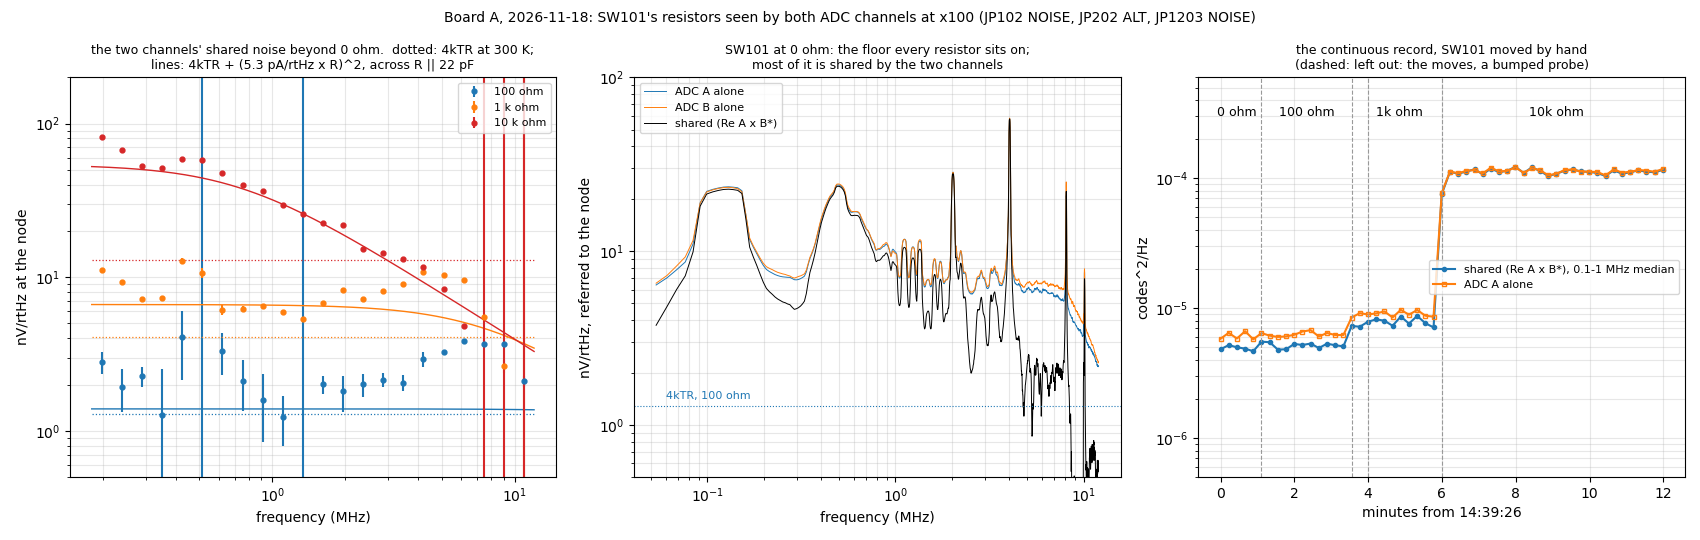
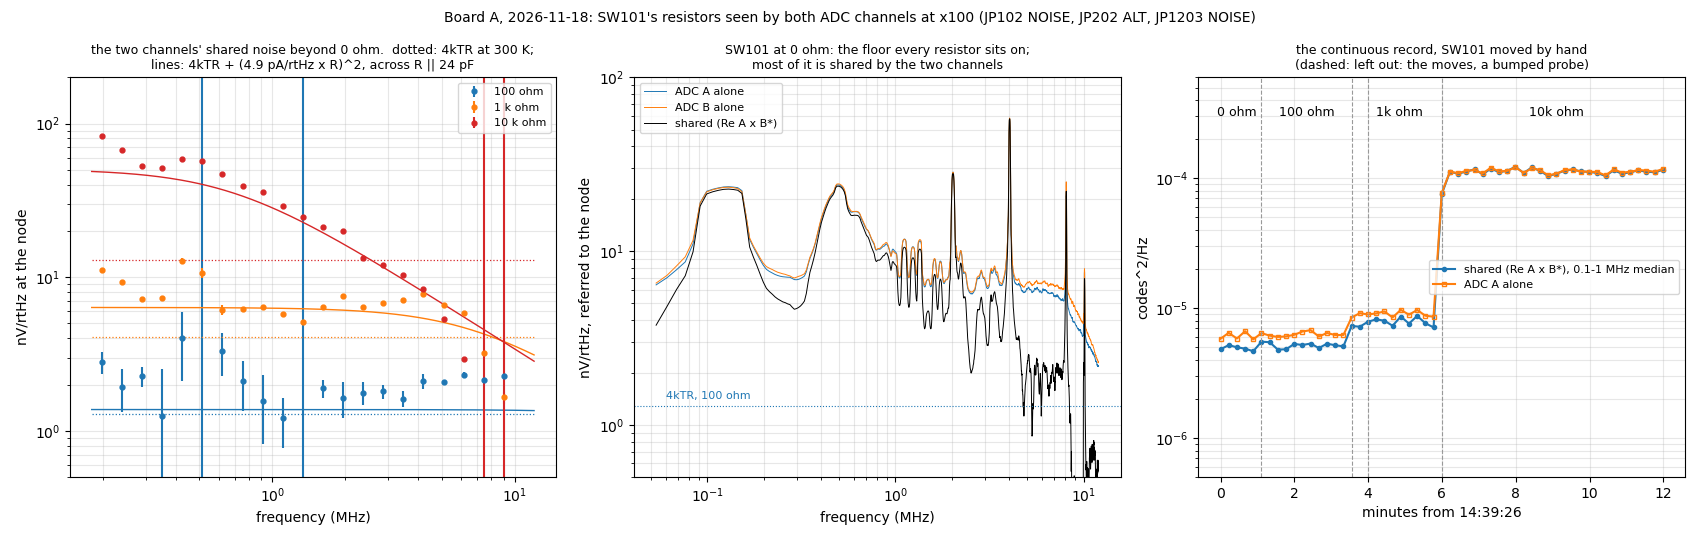
Visit 3 gain: x100 / x1 = 100.86, flat to 5 MHz; the noise analysis redone on it: T 487 +- 189 K
Claude-Session: https://claude.ai/code/session_01Uf588GeGuaJ8vb8pWfQfmA

diff --git a/bringup/gain/gain_check.py b/bringup/gain/gain_check.py
@@ -1,0 +1,129 @@
+#!/usr/bin/env python3
+"""Channel A's gain at x1, x10 and x100, with the flash's bring-up design (ecp5bu): a cable from J204 DAC 1 OUT to J101
+ADC A IN, JP101 TERM in, JP102 on SMA.  The same DAC sine is read at each gain, so each ratio does not depend on the DAC's
+own accuracy; a DC staircase at x1 gives the absolute scale (ADC codes per DAC code: 0.25 by design, both ends +-1 V into
+50 ohm); a sweep at x1 and x100 gives the x100 stages' frequency response.
+
+    python3 gain_check.py x1        # all four GAIN shunts in
+    python3 gain_check.py x10       # JP103 out: the first stage at x10.1
+    python3 gain_check.py x100      # JP103 and JP104 out
+    python3 gain_check.py x10b      # JP103 back in, JP104 out: the second stage alone at x10.1
+    python3 gain_check.py --analyze
+
+Saves gain_<stage>.npz here.  (For bringup/noise/johnson.py: its G0 assumes 2048 codes/V x 10.1^2.)
+"""
+import os
+import sys
+import time
+
+import numpy as np
+
+HERE = os.path.dirname(os.path.abspath(__file__))
+sys.path.insert(0, os.path.join(HERE, "..", "..", "gateware", "bringup", "host"))
+F0 = 100e3
+PLAN = {"x1": dict(shifts=[1, 4, 5, 8], dc=True, sweep=1), "x10": dict(shifts=[4, 5, 8], dc=False, sweep=4),
+        "x100": dict(shifts=[7, 8, 9], dc=False, sweep=8), "x10b": dict(shifts=[4, 5, 8], dc=False, sweep=4)}
+SWEEP = [100e3, 200e3, 500e3, 1e6, 2e6, 3e6, 5e6, 7e6, 10e6]
+
+
+def board():
+    import ecp5bu
+    bd = ecp5bu.Board(ecp5bu.find_port())
+    bd.gpio(dac_sleep=0, pdwn_a=0, pdwn_b=0)
+    bd.dac_config(rate=50e6)
+    bd.dac(2, "dc", code=8192)
+    bd.adc_config(rate=25e6)
+    return bd
+
+
+def fit(t, x, f):
+    m = np.column_stack([np.ones_like(t), np.cos(2 * np.pi * f * t), np.sin(2 * np.pi * f * t)])
+    c, *_ = np.linalg.lstsq(m, x, rcond=None)
+    r = x - m @ c
+    return c[0], np.hypot(c[1], c[2]), np.arctan2(-c[2], c[1]), r.std()
+
+
+def sine(bd, f, shift, n=4):
+    fx = bd.dac(1, "sine", freq=f, shift=shift)
+    time.sleep(0.05)
+    out = []
+    for _ in range(n):
+        t, a, b, otr = bd.capture(8192)
+        a = np.asarray(a, float)
+        out.append(fit(np.asarray(t), a, fx) + (a.min(), a.max()))
+    o = np.array(out)
+    return fx, o[:, 1].mean(), o[:, 1].std() / np.sqrt(n), o[:, 3].mean(), o[:, 4].min(), o[:, 5].max(), o[:, 0].mean()
+
+
+def measure(stage):
+    bd = board()
+    p = PLAN[stage]
+    res = {"stage": stage, "t": time.strftime("%Y-%m-%d %H:%M:%S")}
+    try:
+        rows = []
+        for sh in p["shifts"]:
+            fx, amp, eamp, rms, lo, hi, dc = sine(bd, F0, sh)
+            rows.append((sh, fx, amp, eamp, rms, lo, hi, dc))
+            print("%s  shift %d at %.0f Hz: ADC A amplitude %.3f +- %.3f codes (residual %.2f rms; codes %d..%d; mean %.1f)%s"
+                  % (stage, sh, fx, amp, eamp, rms, lo, hi, dc, "  CLIPPED" if lo <= 0 or hi >= 4095 else ""), flush=True)
+        res["sines"] = np.array(rows)
+        if p["dc"]:
+            drows = []
+            for k in (-4096, -2048, 0, 2048, 4096):
+                bd.dac(1, "dc", code=8192 + k)
+                time.sleep(0.05)
+                t, a, b, otr = bd.capture(8192)
+                drows.append((8192 + k, np.mean(a)))
+                print("%s  DAC code %5d: ADC A mean %.2f" % (stage, 8192 + k, drows[-1][1]), flush=True)
+            d = np.array(drows)
+            res["dc"] = d
+            print("%s  slope %.5f ADC codes per DAC code (0.25 by design)" % (stage, np.polyfit(d[:, 0], d[:, 1], 1)[0]))
+        if p["sweep"] is not None:
+            srows = []
+            for f in SWEEP:
+                fx, amp, eamp, rms, lo, hi, dc = sine(bd, f, p["sweep"], n=2)
+                srows.append((fx, amp, eamp))
+                print("%s  sweep shift %d, %.3f MHz: %.3f codes" % (stage, p["sweep"], fx / 1e6, amp), flush=True)
+            res["sweep"] = np.array(srows)
+    finally:
+        bd.dac(1, "dc", code=8192)                      # DAC 1 at 0 V (code 8192: the LED driver's 24 mA, were it working)
+    np.savez(os.path.join(HERE, "gain_%s.npz" % stage), **res)
+    print("saved gain_%s.npz" % stage)
+
+
+def analyze():
+    d = {s: np.load(os.path.join(HERE, "gain_%s.npz" % s)) for s in PLAN if os.path.exists(os.path.join(HERE, "gain_%s.npz" % s))}
+    amp = {s: {int(r[0]): (r[2], r[3]) for r in d[s]["sines"]} for s in d}
+    if "x1" in d:
+        dc = d["x1"]["dc"]
+        slope = np.polyfit(dc[:, 0], dc[:, 1], 1)[0]
+        print("x1: %.5f ADC codes per DAC code (0.25 by design: %+.2f %%)" % (slope, (slope / 0.25 - 1) * 100))
+    if "x1" in d and "x10" in d:
+        for sh in (4, 5):
+            if sh in amp["x1"] and sh in amp["x10"]:
+                print("x10 / x1 at shift %d: %.4f (10.1 by design)" % (sh, amp["x10"][sh][0] / amp["x1"][sh][0]))
+    if "x1" in d and "x10b" in d:
+        for sh in (4, 5):
+            print("x10b / x1 at shift %d: %.4f (the second stage; 10.1 by design)" % (sh, amp["x10b"][sh][0] / amp["x1"][sh][0]))
+    if "x10b" in d and "x100" in d:
+        print("x100 / x10b at shift 8: %.4f (the first stage, measured the other way)" % (amp["x100"][8][0] / amp["x10b"][8][0]))
+    if "x10" in d and "x100" in d:
+        g = amp["x100"][8][0] / amp["x10"][8][0]
+        print("x100 / x10 at shift 8: %.4f (10.1 by design)" % g)
+        if "x1" in d:
+            g1 = amp["x10"][5][0] / amp["x1"][5][0]
+            print("x100 / x1: %.2f (102.0 by design: %+.1f %%)" % (g * g1, (g * g1 / 102.01 - 1) * 100))
+    if "x100" in d and "x1" in d and "sweep" in d["x100"].files:
+        s100, s1 = d["x100"]["sweep"], d["x1"]["sweep"]
+        r = (s100[:, 1] / s1[:, 1]) / (s100[0, 1] / s1[0, 1])
+        print("x100's response against x1 (shift 8 against shift 1, normalised at 0.1 MHz):",
+              " ".join("%.1f MHz %.3f" % (f / 1e6, x) for f, x in zip(s100[:, 0], r)))
+
+
+if __name__ == "__main__":
+    if len(sys.argv) > 1 and sys.argv[1] == "--analyze":
+        analyze()
+    elif len(sys.argv) > 1 and sys.argv[1] in PLAN:
+        measure(sys.argv[1])
+    else:
+        print(__doc__)

diff --git a/bringup/noise/johnson.py b/bringup/noise/johnson.py
@@ -38,6 +38,31 @@ EDGES = np.geomspace(180e3, 12e6, 23)   # log bands, 12 a decade: at least 5 FFT
 #   median rejects the narrow lines; from 0.18 MHz, above the 120 kHz pair (1.13) that swamps the bands below
 
 
+
+GAIN = os.path.join(HERE, "..", "gain")
+
+
+def measured_chain(fb):
+    """Channel A's gain at x100 in codes per volt at the node, and its power response against frequency, from
+    ../gain/gain_check.py (2026-11-18 16:00-16:05): x1's DC staircase (ADC codes per DAC code, the DAC taken at its
+    design 2 V / 16384 into 50 ohm), x100 / x1 from the same sine, and the x100 sweep with the DAC's 50 MS/s hold
+    (sinc) divided out, since the noise does not pass the DAC.  Without those files: the design values (2048 codes/V
+    x 10.1^2) and two poles at 6 MHz, which is what the first analysis used and which overcorrected 1-5 MHz."""
+    try:
+        x1 = np.load(os.path.join(GAIN, "gain_x1.npz"))
+        x10 = np.load(os.path.join(GAIN, "gain_x10.npz"))
+        x100 = np.load(os.path.join(GAIN, "gain_x100.npz"))
+    except FileNotFoundError:
+        return G0, 1 / (1 + (fb / 6e6) ** 2) ** 2, "the design gain"
+    dc = x1["dc"]
+    per_volt = np.polyfit(dc[:, 0], dc[:, 1], 1)[0] * 16384 / 2.0            # ADC codes per volt at x1
+    amp = lambda z, sh: [r[2] for r in z["sines"] if int(r[0]) == sh][0]
+    g100 = amp(x10, 5) / amp(x1, 5) * amp(x100, 8) / amp(x10, 8)
+    sw = x100["sweep"]
+    f, a = sw[:, 0], sw[:, 1] / np.sinc(sw[:, 0] / 50e6)
+    resp = np.interp(np.log(fb), np.log(f), (a / a[0]) ** 2, left=1.0, right=np.nan)
+    return per_volt * g100, resp, "the measured gain (x1 %.1f codes/V, x100 / x1 %.2f)" % (per_volt, g100)
+
 def spectra(recs, fs):
     n = recs.shape[1]
     w = np.hanning(n)
@@ -93,15 +118,15 @@ def main():
     d = np.load(SPECTRA)
     edges = d["edges"]
     fb = np.sqrt(edges[:-1] * edges[1:])
-    H = 1 / (1 + (fb / 6e6) ** 2) ** 2                      # the two x10.1 stages, poles taken at 6 MHz (GBW / 10.1)
+    G, H, how = measured_chain(fb)
     m, e = {}, {}                                             # mean, error (segment scatter / sqrt n): paa, pbb, Re, Im
     for k in R_OHM:
         s = d[k + "_seg"]
         m[k] = s.mean(0)
         e[k] = s.std(0, ddof=1) / np.sqrt(len(s))
     # the shared part beyond 0 ohm, at the node: V^2/Hz (the chain's nominal gain and poles divided out)
-    v = {k: (m[k][2] - m["0"][2]) / G0 ** 2 / H for k in ("100", "1k", "10k")}
-    ev = {k: np.hypot(e[k][2], e["0"][2]) / G0 ** 2 / H for k in v}
+    v = {k: (m[k][2] - m["0"][2]) / G ** 2 / H for k in ("100", "1k", "10k")}
+    ev = {k: np.hypot(e[k][2], e["0"][2]) / G ** 2 / H for k in v}
     hi = (fb > 0.6e6) & (fb < 4e6)                            # where 100 ohm and 1 k are flat (1 k's RC corner is ~8 MHz)
     plat = (fb > 0.3e6) & (fb < 0.55e6)                       # 10 k's plateau, below its RC corner
     kt300 = 4 * KB * 300
@@ -117,7 +142,7 @@ def main():
                          [p10, 20e-12], x_scale=[p10, 20e-12])
     p10f, cnode = fitc.x
     i2_10k = (p10f - kt300 * 1e4) / 1e8
-    print("the shared part beyond 0 ohm, at the node (nV/rtHz; the chain's nominal gain x %.0f codes/V divided out):" % G0)
+    print("the shared part beyond 0 ohm, at the node (nV/rtHz; %s: %.0f codes/V divided out, and its response):" % (how, G))
     print("  100 ohm %.2f (0.6-4 MHz; 4kTR at 300 K: %.2f);  1 k %.2f (0.6-4 MHz; 4kTR %.2f);  10 k %.1f (0.3-0.55 MHz; 4kTR %.1f)"
           % (np.sqrt(v100) * 1e9, np.sqrt(kt300 * 100) * 1e9, np.sqrt(v1k) * 1e9, np.sqrt(kt300 * 1e3) * 1e9,
              np.sqrt(p10) * 1e9, np.sqrt(kt300 * 1e4) * 1e9))
@@ -132,7 +157,7 @@ def main():
     print("  0 ohm: the channels share %.0f %% of their noise power at 0.18-1 MHz, %.0f %% at 1-5 MHz; at the node, "
           "%.1f nV/rtHz shared and %.1f in A alone (0.18-1 MHz)"
           % (100 * np.median(coh0[lo]), 100 * np.median(coh0[(fb > 1e6) & (fb < 5e6)]),
-             np.sqrt(np.median(m["0"][2][lo]) / G0 ** 2) * 1e9, np.sqrt(np.median(m["0"][0][lo]) / G0 ** 2) * 1e9))
+             np.sqrt(np.median(m["0"][2][lo]) / G ** 2) * 1e9, np.sqrt(np.median(m["0"][0][lo]) / G ** 2) * 1e9))
 
     import matplotlib
     matplotlib.use("Agg")
@@ -156,8 +181,8 @@ def main():
     sm = lambda x: np.convolve(x, np.ones(9) / 9, mode="same")
     band = (f > 50e3) & (f < 12e6)
     for q, lab, col in (("0_paa", "ADC A alone", "C0"), ("0_pbb", "ADC B alone", "C1")):
-        a2.loglog(f[band] / 1e6, np.sqrt(sm(d[q])[band] / G0 ** 2) * 1e9, lw=0.7, color=col, label=lab)
-    a2.loglog(f[band] / 1e6, np.sqrt(np.clip(sm(d["0_pab"].real), 1e-30, None)[band] / G0 ** 2) * 1e9, lw=0.7, color="k",
+        a2.loglog(f[band] / 1e6, np.sqrt(sm(d[q])[band] / G ** 2) * 1e9, lw=0.7, color=col, label=lab)
+    a2.loglog(f[band] / 1e6, np.sqrt(np.clip(sm(d["0_pab"].real), 1e-30, None)[band] / G ** 2) * 1e9, lw=0.7, color="k",
               label="shared (Re A x B*)")
     a2.axhline(np.sqrt(kt300 * 100) * 1e9, color="C0", ls=":", lw=0.8)
     a2.text(0.06, np.sqrt(kt300 * 100) * 1e9 * 1.1, "4kTR, 100 ohm", fontsize=8, color="C0")

diff --git a/bringup/BRINGUP_LOG.md b/bringup/BRINGUP_LOG.md
@@ -108,3 +108,4 @@ with a pen on the back by the RAILS header.
 | visit 3 `leds` | A | 2026-11-18 14:28-14:33 | board A refreshed from its flash (the bring-up design, 14:28:36); `bench.py --sim step leds`, then on the board 14:28:39-14:28:47 (Jason was not yet watching), then looped from a scratch script so he could watch (14:30:53 on; two loops overlapped 14:31:20-14:31:46, the first one's PID taken wrongly from a backgrounded AND-list, as CLAUDE.md warns; the endless one alone after).  **Jason: the eight white LEDs one at a time in order, all eight together, and the RGB LED red, green, blue: as intended.**  Blue too dim, green too bright, red about right: REVB 30.  (Idle, the flash design shows the PLL's lock on the RGB LED: green blinking once a second, red only if unlocked, blue on bus activity) | pass | Prompts 176-181 |
 | visit 3 noise source, both channels | A | 2026-11-18 14:36-14:51 | JP102 NOISE, JP202 ALT, JP1203 NOISE, all four GAIN shunts out (x100 both), fast.bit at 62.5 MS/s; SW101 at 0 ohm (400 captures 14:36:34-14:38:46), then one continuous record in 13 s segments while Jason moved SW101 to 100 ohm (14:40:32), 1 k (14:42:59) and 10 k (14:45:25); the Fluke's probe bumped onto +5V at about 14:43:30 (one segment left out; the board ran on, +1V1 1.1046 V after).  **The node's noise reaches both channels coherently and grows with R**: beyond 0 ohm and on the chain's nominal gain (2048 codes/V x 10.1^2), 100 ohm 2.0 nV/rtHz (4kTR at 300 K: 1.29), 1 k 6.6 (4.07), 10 k 58 (12.9) on a plateau to 0.5 MHz, then one pole at 0.73 MHz: **22 pF on the node**.  The excess over 4kTR grows as R^2: the preamps' input current noise, 5.3 pA/rtHz for the two from 1 k and 5.6 from 10 k (rising below 0.4 MHz).  **Boltzmann's constant not yet**: from 100 ohm, T = 680 +- 200 K on the nominal gain; if the x100 chain is about 1.4x its nominal gain, 100 ohm and 1 k fit 300 K and the data sheet's current noise: the x100 gain has to be measured (visit 3 `gain_x100`, or DAC 1 -> ADC A at a few mV).  The 0 ohm floor is 75 % shared: REVB 31   Written up as the ECP5 tutorial's page 1.22 (ecp5-2adc-2dac-tutorial 2a51f91: its `src/verilog/johnson.py --analyze` reproduces these numbers from `dev/data/johnson/board_a_2026-11-18/`); the gain that would make 100 ohm and 1 k fit 300 K is 1.5x nominal (2.27 in power, 1.3-1.65 within the error), not the 1.4x said above; 10 k, lower in frequency where the current noise rises, would still sit above | pass (the source and the correlation work); k_B open | Prompts 182-189; `bringup/noise/` |
 | visit 3 light | A | 2026-11-18 15:20-15:38 | JP2009 on LED, JP1203 PD, JP202 ALT, x1; the flash's bring-up design.  The `light` step FAILS (+1, +1 codes): **D201 never lights: it is mounted backwards** (REVB 33: cathode pin 0.063 V powered with the shunt off, its other pad 4.966 V; unpowered it lights from JP2009's LED pin to +5V, 1.722 V forward).  The receiver works: ADC B 65 codes over 0 V in room light (about 3 uA), the room's 120 Hz in it, a 34-code drop when Jason leaned over the board, and the bring-up design's 1 Hz green RGB blink seen by the photodiode (`light_curve.py` now darkens the board's LEDs and averages 0.67 s windows).  JP2009 moved to EXT, board power-cycled (USB PROG out and in), DAC 1 at code 0 (15:38:19); an LED on J210 LED EXT (JP2009 on EXT): **the driver does not sink current** (0.91-0.96 V across the LED at codes 0-8192, never lit: REVB 34).  **The receiver passes**: a phone's flashlight on D103 (15:52:46-15:53:18, `light/flashlight_2026-11-18.log`) lifts ADC B from 2114 to 2267 codes (+152: 74 mV, 7.4 uA in the 10 k) | FAIL (D201 backwards, the driver not sinking); the receiver passes | Prompts 191-206; `bringup/light/` |
+| visit 3 gain, channel A | A | 2026-11-18 16:00-16:08 | `bringup/gain/gain_check.py` on the flash's bring-up design, J204 DAC 1 OUT -> J101 ADC A IN, TERM in, JP102 SMA; the same DAC sine at each gain (100 kHz).  **x1: 0.25251 ADC codes per DAC code (+1.0 % on design), 2068.6 codes/V; stage 1 (JP103 out) 10.056, stage 2 alone (JP104 out) 10.074, against x1 at shift 5; within x100, 10.012 and 10.029 (shift 8); x100 / x1 = 100.86 (-1.1 % on 102.0)**, each pairing's product the same to 0.01 %.  The x10 stages are flat to 5 MHz against x1 (0.99), 0.84 at 7 MHz, 0.44 at 10 MHz.  Swings past +-0.6 of full scale read about 1 % low (REVB 27's compression).  So the noise run's gain was not 1.5x: the first analysis's two poles at 6 MHz overcorrected 1-5 MHz.  **Redone with the measured gain and response: 100 ohm 1.71 nV/rtHz (4kTR 1.29), 1 k 6.36, 10 k 57.3; current noise 4.9-5.6 pA/rtHz (both); 24 pF; T = 487 +- 189 K, k_B = (2.2 +- 0.9)e-23 J/K at 300 K: consistent with room temperature at 1 sigma** | pass | Prompts 208-211; `bringup/gain/` |

diff --git a/CLAUDE_CODE_CHAT.md b/CLAUDE_CODE_CHAT.md
@@ -6660,3 +6660,18 @@ side.  206: Using the flashlight now.  207: done.
 * 206-207: a phone's flashlight on D103 (`light/pd_log.py`, 0.67 s windows, the board's LEDs dark): ADC B 2114 -> 2267
   codes (+152, 7.4 uA in the 10 k), three pulses: **the photodiode receiver passes**.  The light path's two faults are the
   LED (backwards) and its driver.
+
+## Prompts 208-211 2026-11-18 (after 15:53; the x100 gain)
+
+208: Do the x100 gain check. You should have a x1 set of jumpers now. Test that.  209: JP103 pulled. Do that
+measurement. When you're done, we should pull JP104, do a measurement at x100, but then put back in JP103 to do a x10
+measurement with the other x10 amplifier.  210: JP104 pulled. x100.  211: x10b.
+
+## Response 208-211 2026-11-18 16:00 - 2026-11-18 16:08 Claude Opus 5.5
+
+* `bringup/gain/gain_check.py` (the bring-up design; the cable J204 -> J101 was in: a 1041-code sine for 1024): the same
+  DAC sine at each gain, so the ratios do not lean on the DAC.  x1 2068.6 codes/V (+1.0 %); stage 1 10.056, stage 2
+  10.074 alone; 10.012 and 10.029 within x100; **x100 / x1 = 100.86 (-1.1 %)**; the x10 stages flat to 5 MHz.
+* **The gain was not the problem; my analysis's assumed roll-off was** (two poles at 6 MHz, when the stages are flat to
+  5 MHz: 1-5 MHz overcorrected).  With the measured gain and response, `bringup/noise/johnson.py`: T = 487 +- 189 K,
+  k_B = (2.2 +- 0.9)e-23 J/K: room temperature within 1 sigma, to +-40 %.
